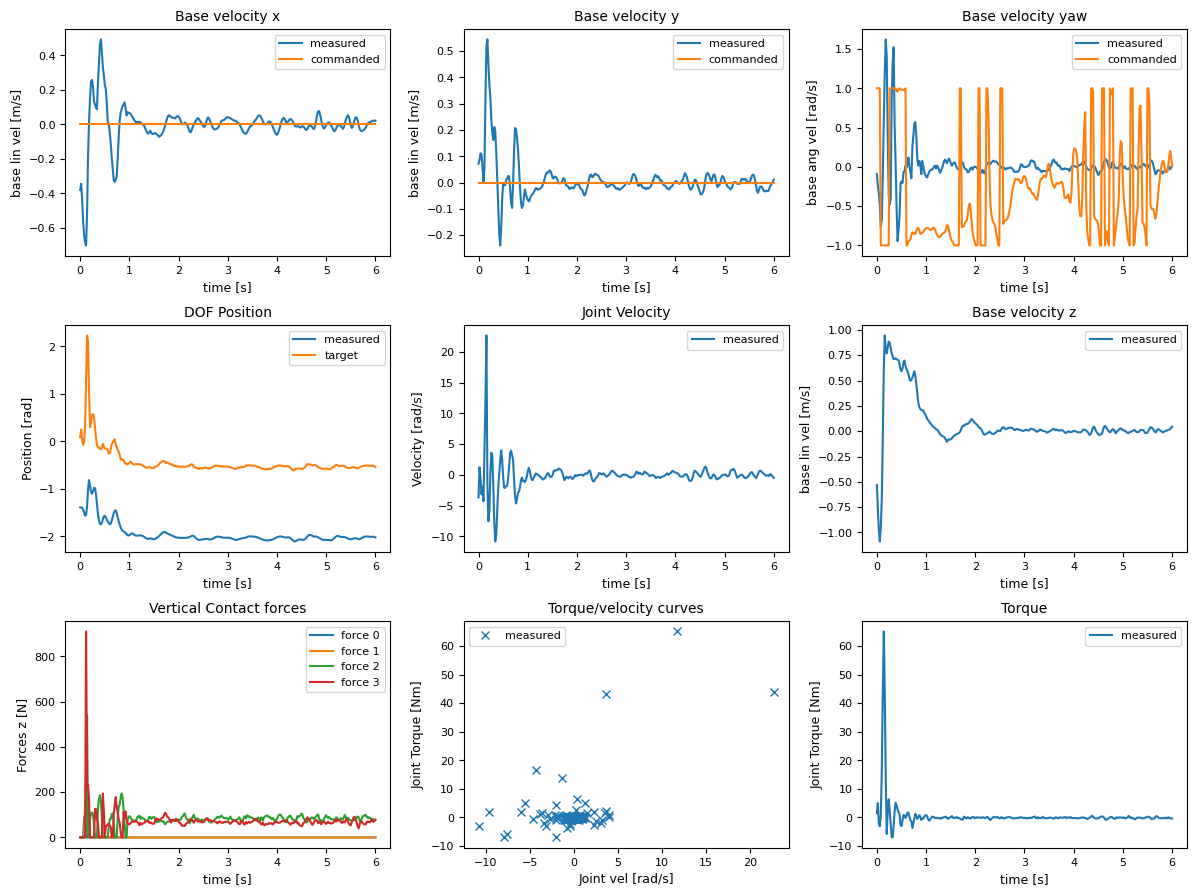
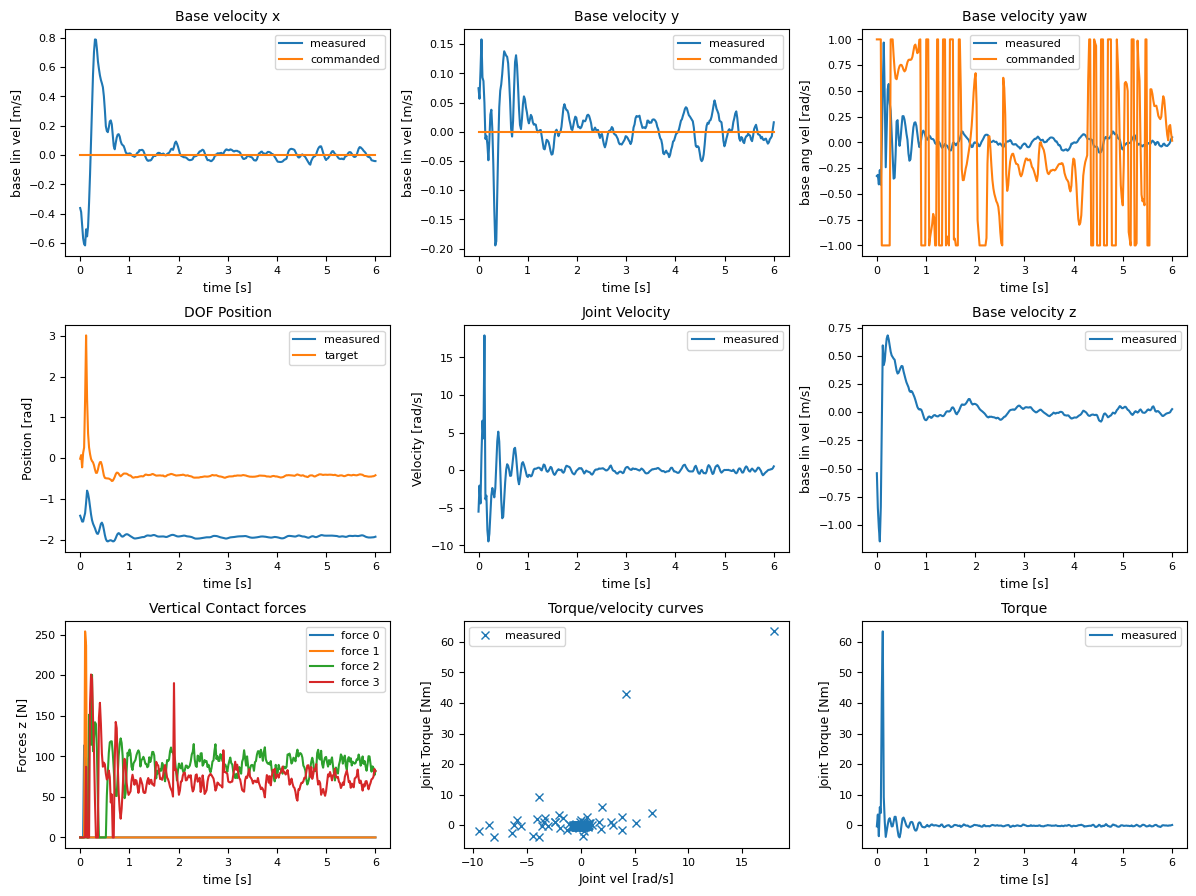
Additional foot joint for biped robot with working training for linear velocity Need support for linear velocity in deployment Observation model input changed

diff --git a/legged_gym/envs/go2/go2_spark_biped/go2_spark_biped.py b/legged_gym/envs/go2/go2_spark_biped/go2_spark_biped.py
@@ -455,11 +455,12 @@ class GO2SparkBiped(BaseTask):
         obs_buf = torch.cat((
             self.commands[:, :3] * self.commands_scale,    # cmd     3
             self.projected_gravity,                        # g       3
+            self.base_lin_vel * self.obs_scales.lin_vel,   # omega   3
             self.base_ang_vel * self.obs_scales.ang_vel,   # omega   3
             (self.dof_pos - self.default_dof_pos) * self.obs_scales.dof_pos,                       # p_t     12
             self.dof_vel * self.obs_scales.dof_vel,        # dp_t    12
             self.actions,                                  # a_{t-1} 12
-            self.clock_input,                              # clock   4
+            self.clock_input,                              # clock   1
             self.gait_period,                              # gait period 1
             self.base_height_target,                       # base height target 1
             self.foot_clearance_target,                    # foot clearance target 1
@@ -483,7 +484,7 @@ class GO2SparkBiped(BaseTask):
                 self.obs_scales.dof_pos,                       # p_t     12
                 self.dof_vel * self.obs_scales.dof_vel,        # dp_t    12
                 self.actions,                                  # a_{t-1} 12
-                self.clock_input,                              # clock   4
+                self.clock_input,                              # clock   1
                 self.gait_period,                              # gait period 1
                 self.base_height_target,                       # base height target 1
                 self.foot_clearance_target,                    # foot clearance target 1
@@ -560,7 +561,7 @@ class GO2SparkBiped(BaseTask):
         # Periodic Reward Framework buffer reset
         self.gait_time[env_ids] = 0.0
         self.phi[env_ids] = 0.0
-        self.clock_input[env_ids, :] = 0.0
+        self.clock_input[env_ids] = 0.0
 
         # fill extras
         self.extras["episode"] = {}
@@ -584,7 +585,6 @@ class GO2SparkBiped(BaseTask):
         self.extras["episode"]["pitch_target"] = torch.mean(self.pitch_target[:])
         self.extras["episode"]["foot_clearance_target"] = torch.mean(self.foot_clearance_target[:])
         self.extras["episode"]["base_height_target"] = torch.mean(self.base_height_target[:])
-        self.extras["episode"]["theta_fr"] = torch.mean(self.theta[:, 1])
 
         # reset action queue and delay
         if self.cfg.domain_rand.randomize_ctrl_delay:
@@ -754,7 +754,7 @@ class GO2SparkBiped(BaseTask):
             self.pitch_target[env_ids, :] = self.fixed_pitch_target[env_ids, :]
 
             # set small commands to zero
-            self.commands[env_ids, :2] *= (torch.norm(self.commands[env_ids, :2], dim=1) > self.cfg.commands.min_normal).unsqueeze(1)
+            #self.commands[env_ids, :2] *= (torch.norm(self.commands[env_ids, :2], dim=1) > self.cfg.commands.min_normal).unsqueeze(1)
 
             rand_left = torch.rand((len(env_ids), 3), device=self.device)
             rand_right = torch.rand((len(env_ids), 3), device=self.device)
@@ -805,12 +805,16 @@ class GO2SparkBiped(BaseTask):
         """ Random pushes the robots. Emulates an impulse by setting a randomized base velocity.
         """
         if self.push_interval_s > 0 and not self.debug:
+
+            gate = self._biped_orientation_gate()
+
             max_push_vel_xy = self.cfg.domain_rand.max_push_vel_xy
             # in Genesis, base link also has DOF, it's 6DOF if not fixed.
             dofs_vel = self.robot.get_dofs_velocity()  # (num_envs, num_dof) [0:3] ~ base_link_vel
             push_vel = gs_rand_float(-max_push_vel_xy, max_push_vel_xy, (self.num_envs, 2), self.device)
             self._rand_push_vels[:, :2] = push_vel.detach().clone()
             push_vel[((self.common_step_counter + self.env_identities) % int(self.push_interval_s / self.dt) != 0)] = 0.0
+            push_vel[gate < 0.5] = 0.0 # Don't push if not standing up
             dofs_vel[:, :2] += push_vel
             self.robot.set_dofs_velocity(dofs_vel)
 
@@ -852,8 +856,7 @@ class GO2SparkBiped(BaseTask):
     def _calc_periodic_reward_obs(self):
         """Calculate the periodic reward observations.
         """
-        for i in range(4):
-            self.clock_input[:, i] = torch.sin(2 * torch.pi * (self.phi + self.theta[:, i].unsqueeze(1))).squeeze(-1)
+        self.clock_input[:] = torch.sin(2 * torch.pi * self.phi)
 
     def _post_physics_step_callback(self):
         env_ids = (self.episode_length_buf % int(self.cfg.commands.resampling_time / self.dt) == 0).nonzero(as_tuple=False).flatten()
@@ -948,15 +951,28 @@ class GO2SparkBiped(BaseTask):
         self.add_noise = self.cfg.noise.add_noise
         noise_scales = self.cfg.noise.noise_scales
         noise_level = self.cfg.noise.noise_level
-        noise_vec[:3] = 0.  # commands
-        noise_vec[3:6] = noise_scales.gravity * noise_level
-        noise_vec[6:9] = noise_scales.ang_vel * noise_level * self.obs_scales.ang_vel
-        noise_vec[9:9+1*self.num_actions] = noise_scales.dof_pos * noise_level * self.obs_scales.dof_pos                    # p_t
-        noise_vec[9+1*self.num_actions:9+2*self.num_actions] = noise_scales.dof_vel * noise_level * self.obs_scales.dof_vel  # dp_t
-        noise_vec[9+2*self.num_actions:9+3*self.num_actions] = 0.  # a_{t-dt}
-
-        # if self.cfg.terrain.measure_heights:
-        #     noise_vec[48:235] = noise_scales.height_measurements* noise_level * self.obs_scales.height_measurements
+        # Observation layout (per frame): cmd(3), grav(3), base_lin_vel(3), base_ang_vel(3),
+        # dof_pos(14), dof_vel(14), last_actions(14), clock(1), gait(1), base_h(1),
+        # foot_clearance(1), fixed_pitch(1), arm_left(4), arm_right(4)
+        i = 0
+        noise_vec[i:i+3] = 0.  # commands
+        i += 3
+        noise_vec[i:i+3] = noise_scales.gravity * noise_level
+        i += 3
+        noise_vec[i:i+3] = noise_scales.lin_vel * noise_level * self.obs_scales.lin_vel
+        i += 3
+        noise_vec[i:i+3] = noise_scales.ang_vel * noise_level * self.obs_scales.ang_vel
+        i += 3
+        noise_vec[i:i+self.num_actions] = noise_scales.dof_pos * noise_level * self.obs_scales.dof_pos                    # p_t
+        i += self.num_actions
+        noise_vec[i:i+self.num_actions] = noise_scales.dof_vel * noise_level * self.obs_scales.dof_vel  # dp_t
+        i += self.num_actions
+        noise_vec[i:i+self.num_actions] = 0.  # a_{t-dt}
+        i += self.num_actions
+        if self.cfg.terrain.measure_heights and hasattr(self, "num_height_points"):
+            end = i + self.num_height_points
+            if end <= noise_vec.shape[0]:
+                noise_vec[i:end] = noise_scales.height_measurements * noise_level * self.obs_scales.height_measurements
 
         return noise_vec
 
@@ -1062,12 +1078,11 @@ class GO2SparkBiped(BaseTask):
                 )
             )
         # Periodic Reward Framework
-        self.theta = torch.zeros(self.num_envs, 4, dtype=gs.tc_float, device=self.device)
         self.gait_time = torch.zeros(self.num_envs, 1, dtype=gs.tc_float, device=self.device)
         self.phi = torch.zeros(self.num_envs, 1, dtype=gs.tc_float, device=self.device)
         self.gait_period = torch.zeros(self.num_envs, 1, dtype=gs.tc_float, device=self.device)
         self.gait_period[:] = self.cfg.rewards.behavior_params_range.gait_period_range[1]
-        self.clock_input = torch.zeros(self.num_envs, 4, dtype=gs.tc_float, device=self.device, )
+        self.clock_input = torch.zeros(self.num_envs, 1, dtype=gs.tc_float, device=self.device, )
 
         self.dummy_obs = torch.zeros(self.num_envs, 1, dtype=gs.tc_float, device=self.device)
 
@@ -1392,11 +1407,21 @@ class GO2SparkBiped(BaseTask):
 
     def _biped_orientation_gate(self):
         # Gate shaping rewards: 1 when aligned, 0 when far from target
-        target = self.fixed_pitch_target.squeeze(1)
-        error = torch.abs(self.base_axis_fwd[:, 2] - target)
-        window = max(self.cfg.rewards.biped_shaping_pitch_window, 1e-6)
+        # target = self.fixed_pitch_target.squeeze(1)
+        # error = torch.abs(self.base_axis_fwd[:, 2] - target)
+        # window = max(self.cfg.rewards.biped_shaping_pitch_window, 1e-6)
+        # gate = torch.clamp(error / window, 0.0, 1.0)
+        # return 1.0 - gate
+
+        pitch_angle = torch.atan2(self.base_axis_fwd[:, 2], torch.norm(self.base_axis_fwd[:, :2], dim=1))
+        target = 1.570796 # 90.0 degrees
+        error = torch.abs(pitch_angle - target)
+
+        window = max(self.cfg.rewards.biped_shaping_pitch_window * target, 1e-6)
         gate = torch.clamp(error / window, 0.0, 1.0)
         return 1.0 - gate
+
+
 
     def _reward_arm_angles(self):
         # ---- gather & validate shapes ----
@@ -1468,12 +1493,19 @@ class GO2SparkBiped(BaseTask):
         # Ensure the z component of base_lin_vel is negative
         frame_lin_vel = self.base_lin_vel[:, :].clone()
         frame_lin_vel[:, 0] = -self.base_lin_vel[:, 2]
-        lin_vel_error = torch.sum(torch.square(self.commands[:, :2] - frame_lin_vel[:, :2]), dim=1)
 
-        reward = torch.exp(-lin_vel_error/self.cfg.rewards.tracking_sigma)
+        cmd = self.commands[:, :2]
+        vel = frame_lin_vel[:, :2]
+
+        # cmd_mag = torch.norm(cmd, dim=1)
+        # # Deadzone: don’t care about tracking for tiny commands
+        # deadzone = 0.05
+        # cmd_gate = (cmd_mag > deadzone).float()
+        lin_vel_error = torch.sum(torch.square(cmd - vel), dim=1)
+
+        reward = torch.exp(-lin_vel_error/self.cfg.rewards.tracking_sigma) # * cmd_gate
         gate = self._biped_orientation_gate()
         return torch.lerp(torch.zeros_like(reward), reward, gate)
-
 
     def _contact_mag(self, idx):  # smooth contact metric
         return torch.norm(self.link_contact_forces[:, idx, :], dim=-1)
@@ -1512,8 +1544,8 @@ class GO2SparkBiped(BaseTask):
 
     def _reward_hind_alternation(self):
         # encourage alternating single support (one foot on, other off)
-        f_rl = self._contact_mag(self.foot_index_rl) > 7.0
-        f_rr = self._contact_mag(self.foot_index_rr) > 7.0
+        f_rl = self._contact_mag(self.foot_index_rl) > 1.0
+        f_rr = self._contact_mag(self.foot_index_rr) > 1.0
         both  = (f_rl & f_rr).float()
         none  = (~f_rl & ~f_rr).float()
         #single = (f_rl ^ f_rr).float()
@@ -1540,21 +1572,53 @@ class GO2SparkBiped(BaseTask):
         return torch.lerp(torch.zeros_like(reward), reward, gate)
 
     def _reward_hind_foot_clearance(self):
-        # Use terrain-relative height on rough terrain and only penalize during swing.
-        hind_pos = self.feet_pos[:, 2:, :]                       # [N, 2, 3] (RL, RR)
-        hind_height = hind_pos[:, :, 2] - self._terrain_height_at_points(hind_pos[:, :, :2])
+        # Swing foot comes from the clock, but we only penalize when it is actually in swing (not loaded).
+        p_rl = self.feet_pos[:, 2, :]
+        p_rr = self.feet_pos[:, 3, :]
+        phi = (self.phi % 1.0).squeeze(-1)
+        swing_rl = (phi > 0.5)
+        hind = torch.where(swing_rl.unsqueeze(-1), p_rl, p_rr)
 
-        hind_contacts = self.link_contact_forces[:, self.feet_indices[2:], 2] > 1.0
-        swing_mask = (~hind_contacts).float()
+        # Terrain-relative height of the swing foot
+        hind_height = hind[:, 2] - self._terrain_height_at_points(hind[:, :2])
 
-        target = self.foot_clearance_target + self.cfg.rewards.foot_height_offset
+        # Contact proxy: consider the phi-selected foot to be swing only if not loaded
+        hind_contacts = (self.link_contact_forces[:, self.feet_indices[2:], 2].abs() > 1.0)
+        swing_contact = torch.where(swing_rl, hind_contacts[:, 0], hind_contacts[:, 1])
+        swing_mask = (~swing_contact).float()
+
+        target = (self.foot_clearance_target + self.cfg.rewards.foot_height_offset).squeeze(-1)
         below_target = torch.clamp(target - hind_height, min=0.0)
 
-        clearance_error = torch.sum(swing_mask * below_target ** 2, dim=-1)
+        # Deadzone on command magnitude; skip when essentially stationary
+        cmd_mag = torch.norm(self.commands[:, :2], dim=1)
+        cmd_gate = (cmd_mag > 0.05).float()
+
+        # Penalize clearance error only when (a) command present and (b) swing foot not in contact
+        clearance_error = cmd_gate * swing_mask * (below_target ** 2)
         reward = torch.exp(-clearance_error / self.cfg.rewards.foot_clearance_tracking_sigma)
         return reward
-        #gate = self._biped_orientation_gate()
-        #return torch.lerp(torch.zeros_like(reward), reward, gate)
+
+    def _reward_feet_under_base(self):
+        """Reward hind feet being tucked under the base (small fore–aft spread) when standing still."""
+        base_x = self.base_pos[:, 0]
+        p_rl = self.feet_pos[:, 2, 0]
+        p_rr = self.feet_pos[:, 3, 0]
+        x_err_rl = torch.square(base_x - p_rl)
+        x_err_rr = torch.square(base_x - p_rr)
+
+        sigma = self.cfg.rewards.feet_under_base_sigma
+        reward = torch.exp(-(x_err_rl + x_err_rr) / (2.0 * sigma * sigma))
+
+        hind_contact = (self.link_contact_forces[:, self.feet_indices[2:], 2].abs() > 1.0)
+        hind_contact_any = hind_contact.any(dim=1)
+
+        cmd_xy = self.commands[:, :2]
+        moving = torch.norm(cmd_xy, dim=1) >= self.cfg.commands.min_normal
+        active = (~moving)
+        # Ones like reward to encourage moving
+        reward = torch.where(active & hind_contact_any, reward, torch.ones_like(reward))
+        return reward
 
     def _reward_com_over_support(self):
         p_rl = self.feet_pos[:, 2, :2]
@@ -1566,3 +1630,43 @@ class GO2SparkBiped(BaseTask):
         reward = torch.exp(-(d * d) / 0.03)      # sigma ≈ 0.173 m
         gate = self._biped_orientation_gate()
         return torch.lerp(torch.zeros_like(reward), reward, gate)
+
+    def _neg_reward_hind_spread_contact(self):
+        """Penalize hind feet fore–aft spread when both are in contact and not moving."""
+        cmd_xy = self.commands[:, :2]
+        moving = torch.norm(cmd_xy, dim=1) >= self.cfg.commands.min_normal
+        hind_contact = (self.link_contact_forces[:, self.feet_indices[2:], 2].abs() > 1.0)
+        both_contact = hind_contact.all(dim=1)
+
+        inv_base_quat = gs_inv_quat(self.base_quat)
+        hind_pos_world = self.feet_pos[:, 2:, :]
+        hind_pos_rel = hind_pos_world - self.base_pos[:, None, :]
+        hind_flat = hind_pos_rel.reshape(-1, 3)
+        quat_flat = inv_base_quat.repeat_interleave(hind_pos_rel.shape[1], dim=0)
+        hind_base_flat = transform_by_quat(hind_flat, quat_flat)
+        hind_pos_base = hind_base_flat.view(hind_pos_rel.shape)
+
+        spread = hind_pos_base[:, 0, 0] - hind_pos_base[:, 1, 0]
+        spread_sq = spread * spread
+
+        sigma = self.cfg.rewards.hind_spread_sigma
+        cost = spread_sq / (2.0 * sigma * sigma)
+        active = (~moving) & both_contact
+        cost = torch.where(active, cost, torch.zeros_like(cost))
+        return cost
+
+    def _neg_reward_static_walk(self):
+        f_rl = self._contact_mag(self.foot_index_rl) > 1.0
+        f_rr = self._contact_mag(self.foot_index_rr) > 1.0
+        both = (f_rl & f_rr).float()  # [B]
+
+        cmd = self.commands[:, :2]       # [B, 2]
+        cmd_mag = torch.norm(cmd, dim=1) # [B]
+
+        deadzone = 0.05
+        # How far outside deadzone we are, clamped at 0
+        cmd_excess = torch.clamp(cmd_mag - deadzone, min=0.0)
+
+        # Penalty: nonzero only when cmd_mag > deadzone AND both feet in contact
+        cost = both * cmd_excess
+        return cost

diff --git a/legged_gym/envs/go2/go2_spark_biped/go2_spark_biped_config.py b/legged_gym/envs/go2/go2_spark_biped/go2_spark_biped_config.py
@@ -4,7 +4,7 @@ class GO2SparkBipedCfg(BaseConfig):
 
     class env:
         episode_length_s = 20 # episode length in seconds
-        num_envs = 22000
+        num_envs = 21500
         env_spacing = 1.0
         num_actions = 14
         # observation history
@@ -12,7 +12,7 @@ class GO2SparkBipedCfg(BaseConfig):
         c_frame_stack = 5  # critic frame stack
         num_single_obs = 67
         num_observations = int(num_single_obs * frame_stack)
-        single_num_privileged_obs = 108
+        single_num_privileged_obs = 105
         num_privileged_obs = int(c_frame_stack * single_num_privileged_obs)
         send_timeouts = True
         debug = False
@@ -46,7 +46,7 @@ class GO2SparkBipedCfg(BaseConfig):
     class commands:
         curriculum = True
         heading_command = True  # if true: compute ang vel command from heading error
-        resampling_time = 3.0  # time before command are changed[s]
+        resampling_time = 6.0  # time before command are changed[s]
         max_curriculum = 1.
         # default: lin_vel_x, lin_vel_y, ang_vel_yaw, heading (in heading mode ang_vel_yaw is recomputed from heading error)
         num_commands = 4
@@ -55,7 +55,7 @@ class GO2SparkBipedCfg(BaseConfig):
         curriculum_threshold = 0.6
         min_normal = 0.05
         class ranges:
-            lin_vel_x = [-1.0, 1.0]
+            lin_vel_x = [-0.5, 2.0]
             lin_vel_y = [-0.01, 0.01] # Was -0.2, 0.2
             ang_vel_yaw = [-0.5, 0.5]
             heading = [-3.14, 3.14]
@@ -130,8 +130,8 @@ class GO2SparkBipedCfg(BaseConfig):
         randomize_base_mass = enable
         added_mass_range = [-1., 1.]
         push_robots = enable
-        push_interval_s = 15
-        max_push_vel_xy = 1.
+        push_interval_s = 8 # 15
+        max_push_vel_xy = 1.5 #1.
         randomize_com_displacement = enable
         com_displacement_range = [-0.07, 0.07]
         randomize_ctrl_delay = False
@@ -161,22 +161,31 @@ class GO2SparkBipedCfg(BaseConfig):
         thigh_angle_sigma = 0.5
         calf_angle_sigma = 0.5
         arm_angle_sigma = 0.5
+        feet_under_base_sigma = 0.08
+        feet_under_base_height_thresh = 0.5
+        hind_spread_sigma = 0.1
+        foot_orientation_sigma = 0.1
+        foot_orientation_force_scale = 50.0
         biped_shaping_pitch_window = 0.90
         biped_shaping_front_weight = 0.6
         biped_shaping_com_weight = 0.4
 
 
         class scales:
-            front_feet_off = 0.8
+            front_feet_off = 0.35
             front_feet_on_ground_push = 0.0025
-            hind_alternation = 0.8
-            com_over_support = 1.0
-            tracking_lin_vel = 0.9
+            hind_alternation = 0.82
+            com_over_support = 0.5
+            tracking_lin_vel = 1.5
             tracking_ang_vel = 0.65
             orientation = 1.5
-            base_height_target = 0.8
-            hind_foot_clearance = 0.8
+            base_height_target = 0.6
+            hind_foot_clearance = 0.82
             arm_angles = 0.5
+            feet_under_base = 0.45
+            hind_spread_contact = -0.2
+            static_walk = -1.9
+            #foot_orientation = 0.4
 
             dof_pos_limits = -10.0
             collision = -1.0
@@ -192,7 +201,7 @@ class GO2SparkBipedCfg(BaseConfig):
             resampling_time = 6.0
             gait_period_range = [0.40, 0.60]
             foot_clearance_target_range = [0.26, 0.29]
-            base_height_target_range = [0.60, 0.65]
+            base_height_target_range = [0.50, 0.65]
             pitch_target_range = [1.0, 1.0]
 
     class normalization:
@@ -259,9 +268,9 @@ class GO2SparkBipedCfgPPO():
         run_name = 'spark'
         experiment_name = 'go2_spark_biped'
         save_interval = 500
-        load_run = "Dec05_22-28-42_spark"
+        load_run = "Dec07_10-23-08_spark"
         checkpoint = -1
-        max_iterations = 3000
+        max_iterations = 5000
         num_steps_per_env = 16 #32
         policy_class_name = 'ActorCritic'
         algorithm_class_name = 'PPO'
